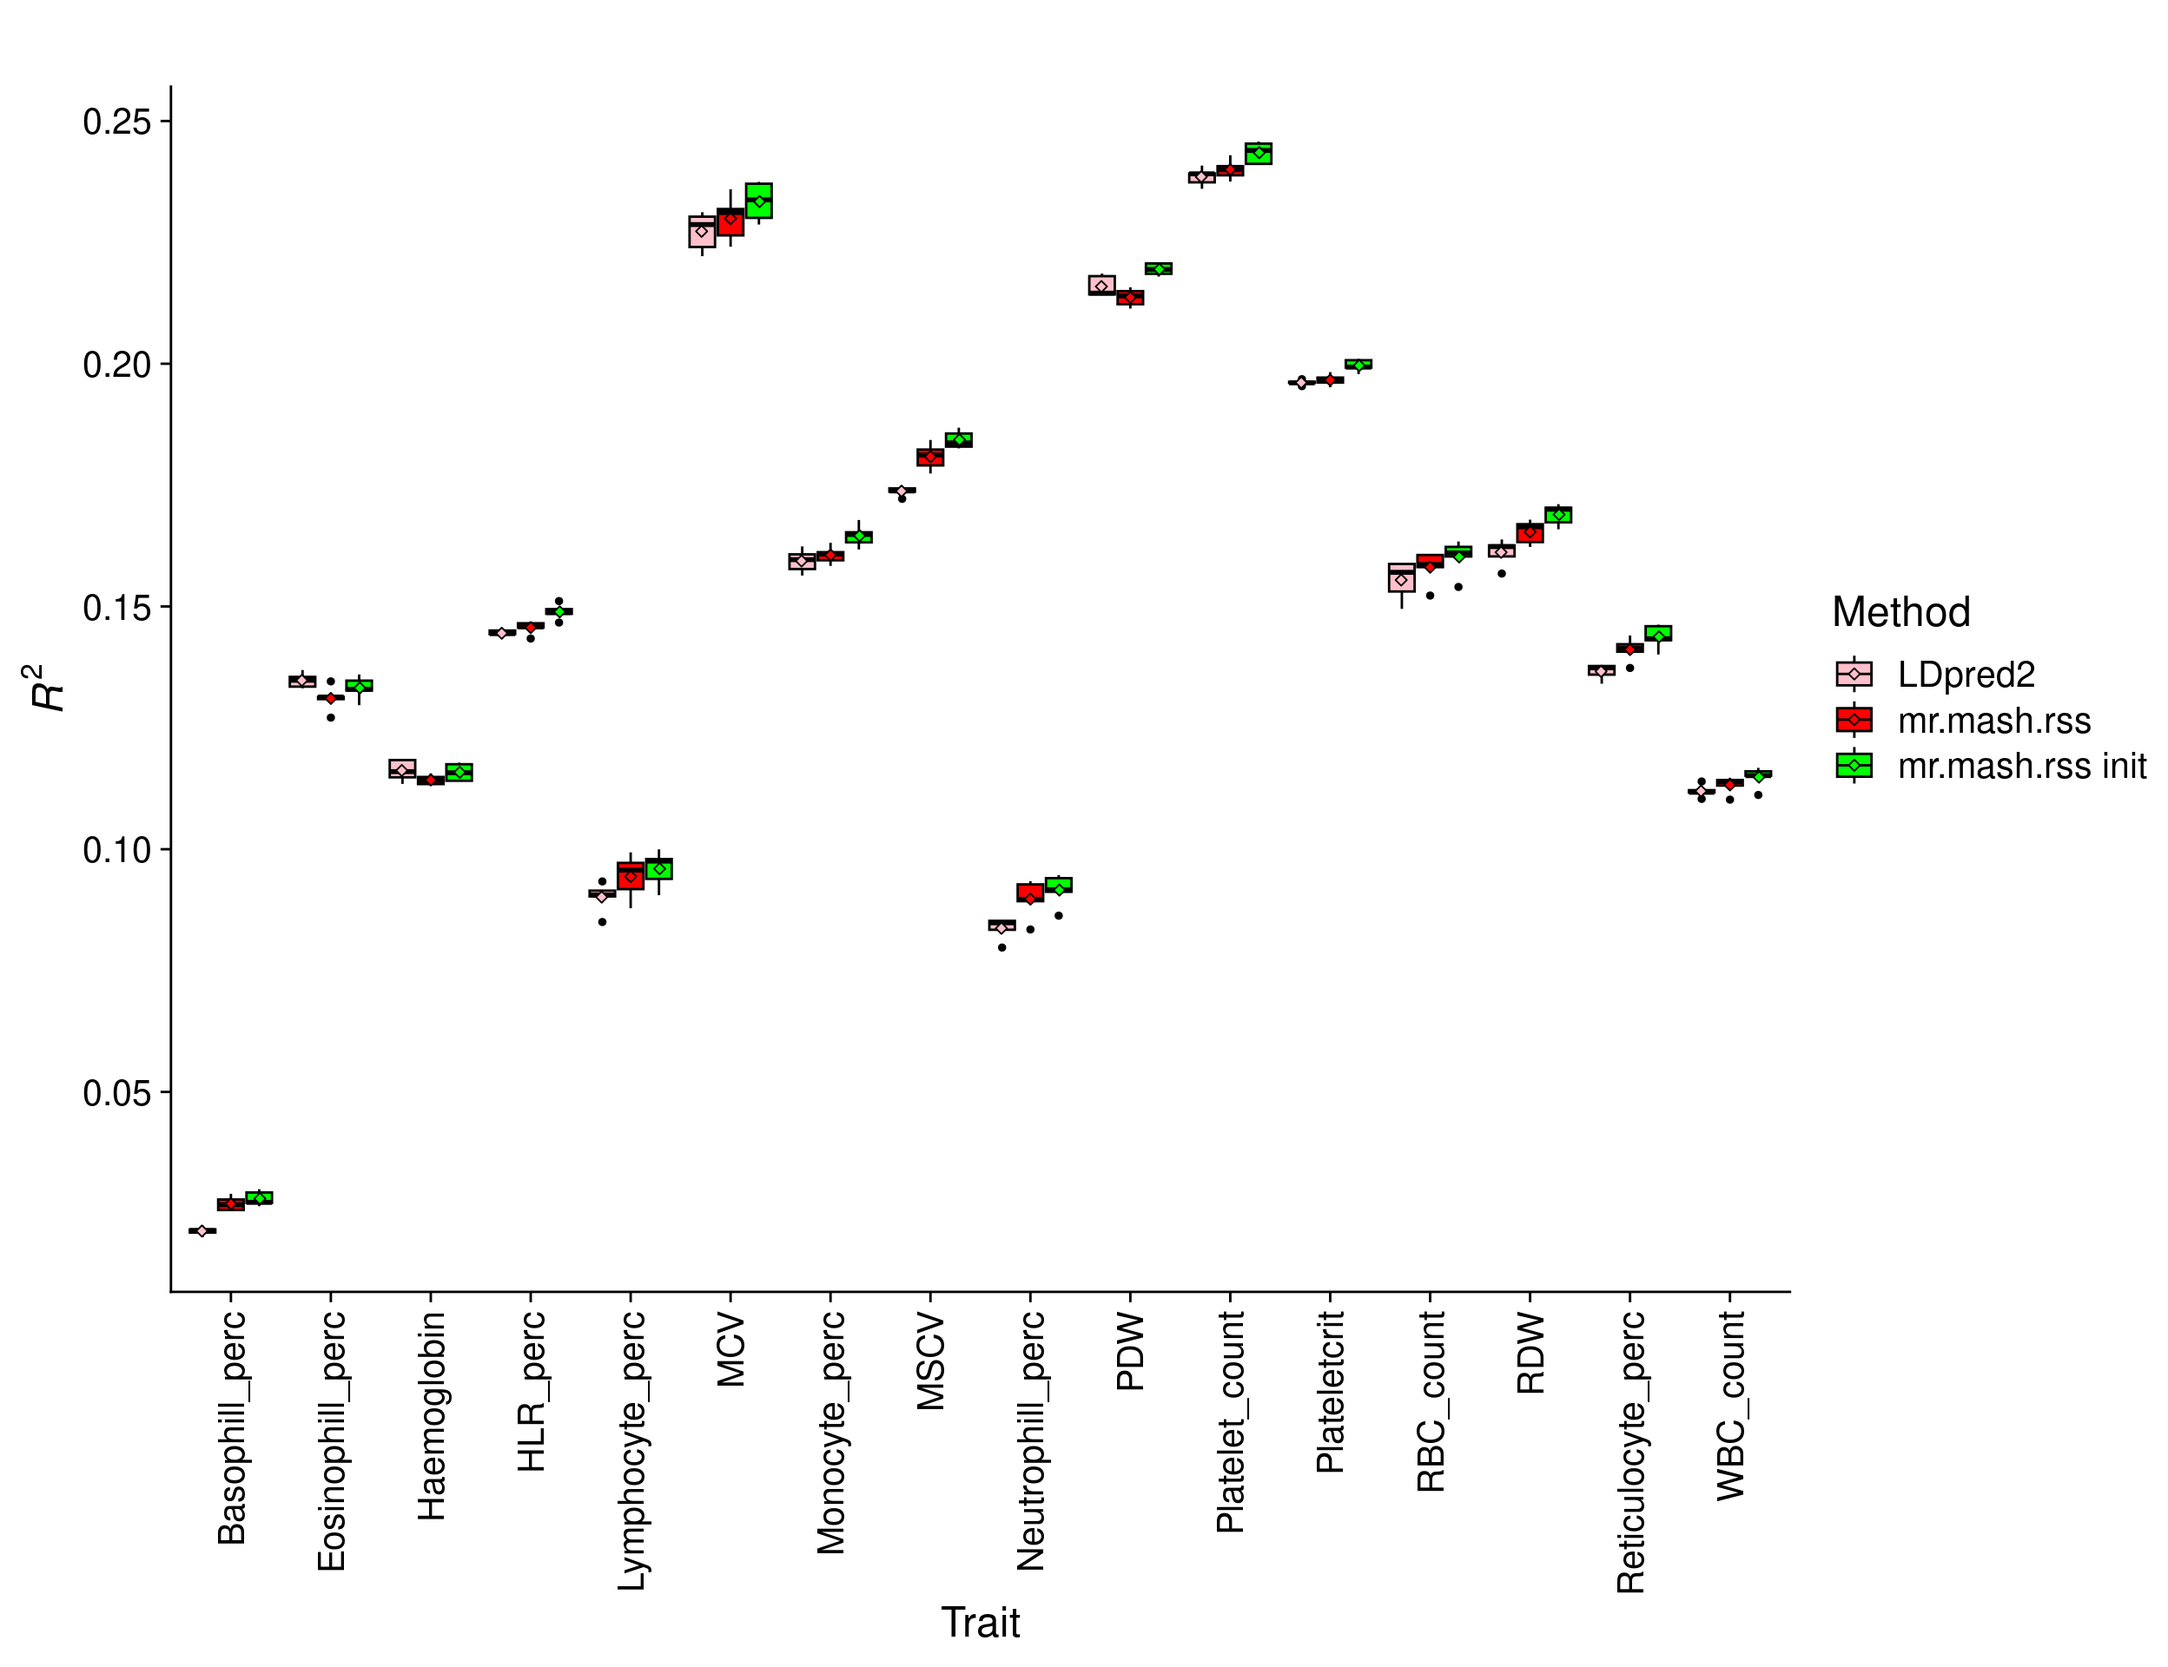
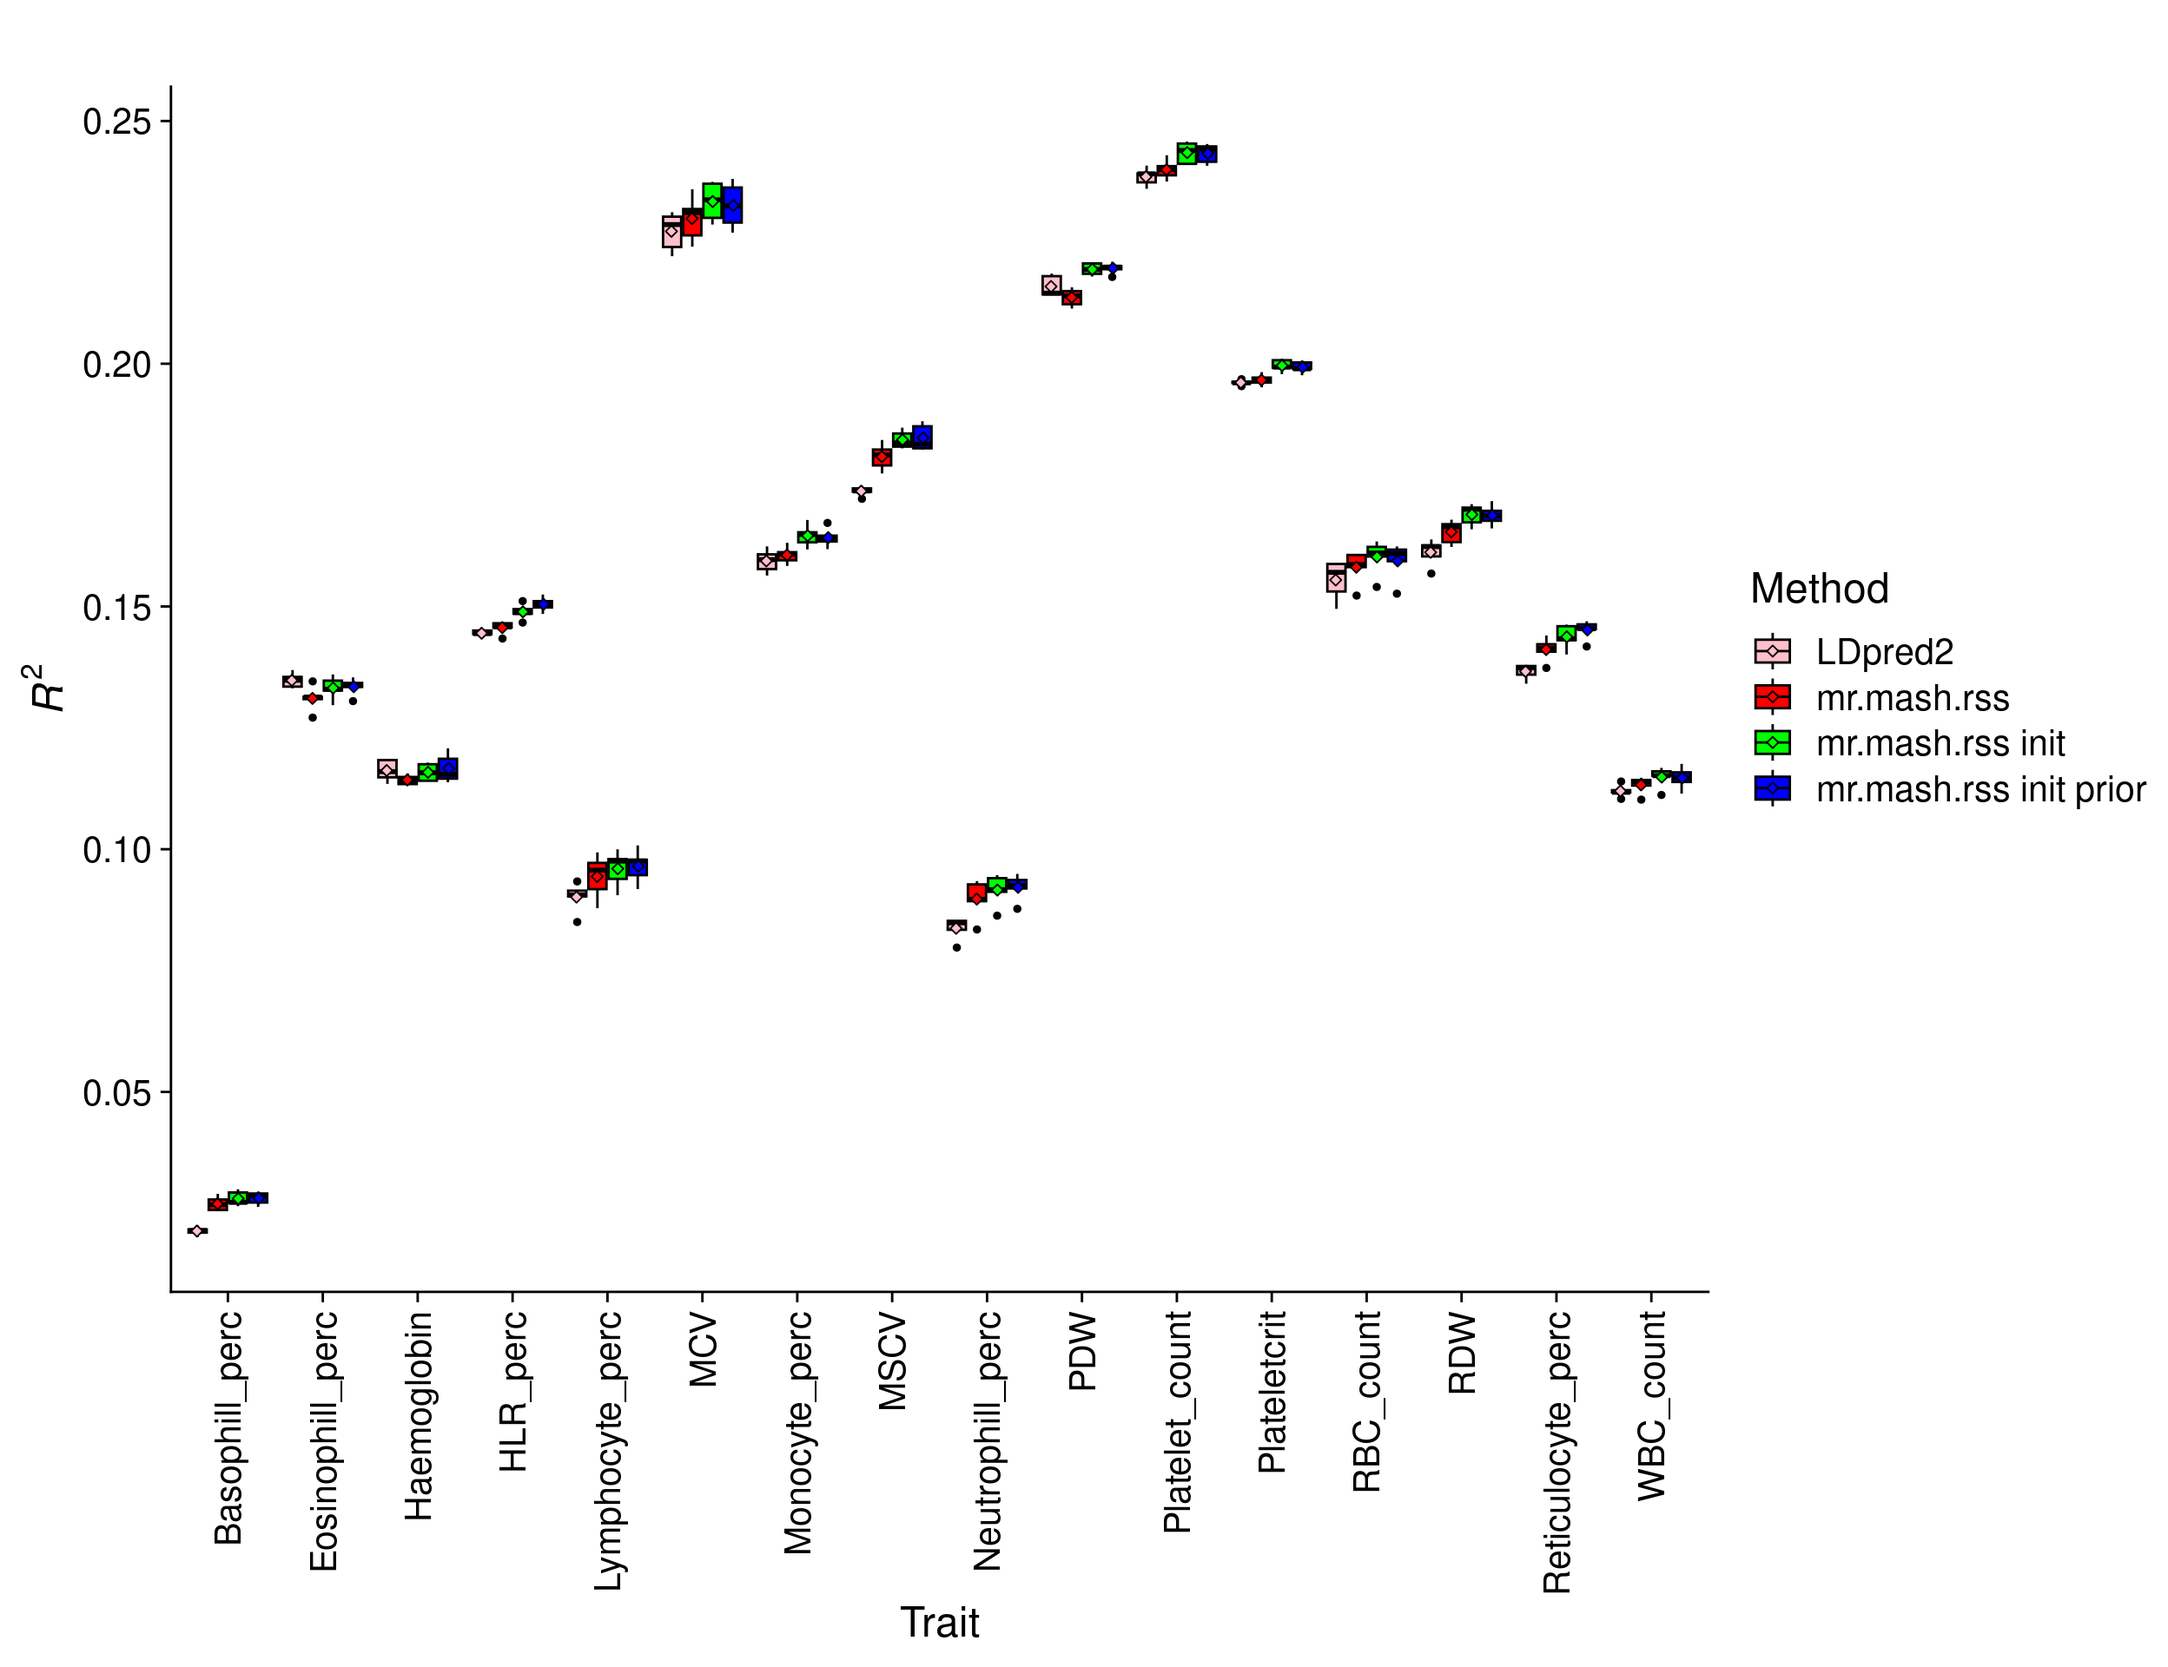
Build site.

diff --git a/docs/ukb_bc_results.html b/docs/ukb_bc_results.html
@@ -11,7 +11,7 @@
 
 <meta name="author" content="Fabio Morgante &amp; Deborah Kunkel" />
 
-<meta name="date" content="2023-11-13" />
+<meta name="date" content="2024-01-02" />
 
 <title>Analysis of blood cell traits in UK Biobank</title>
 
@@ -374,7 +374,7 @@ div.tocify {
 <h1 class="title toc-ignore">Analysis of blood cell traits in UK
 Biobank</h1>
 <h4 class="author">Fabio Morgante &amp; Deborah Kunkel</h4>
-<h4 class="date">November 13, 2023</h4>
+<h4 class="date">January 02, 2024</h4>
 
 </div>
 
@@ -403,7 +403,7 @@ class="glyphicon glyphicon-ok text-success" aria-hidden="true"></span>
 <div class="tab-content">
 <div id="summary" class="tab-pane fade in active">
 <p>
-<strong>Last updated:</strong> 2023-11-13
+<strong>Last updated:</strong> 2024-01-02
 </p>
 <p>
 <strong>Checks:</strong> <span
@@ -534,15 +534,15 @@ project makes it easier to run your code on other machines.</p>
 <div class="panel panel-default">
 <div class="panel-heading">
 <p class="panel-title">
-<a data-toggle="collapse" data-parent="#workflowr-checks" href="#strongRepositoryversionstrongahrefhttpsgithubcommorgantelabmrmashrssanalysistreee2a7fe46e0d6f066b5ffaf30e4e3a6b9b0d636fbtargetblanke2a7fe4a">
+<a data-toggle="collapse" data-parent="#workflowr-checks" href="#strongRepositoryversionstrongahrefhttpsgithubcommorgantelabmrmashrssanalysistree87d67925ed1d07199ec79b00f79de35b51f33bc9targetblank87d6792a">
 <span class="glyphicon glyphicon-ok text-success"
 aria-hidden="true"></span> <strong>Repository version:</strong>
-<a href="https://github.com/morgantelab/mr_mash_rss_analysis/tree/e2a7fe46e0d6f066b5ffaf30e4e3a6b9b0d636fb" target="_blank">e2a7fe4</a>
+<a href="https://github.com/morgantelab/mr_mash_rss_analysis/tree/87d67925ed1d07199ec79b00f79de35b51f33bc9" target="_blank">87d6792</a>
 </a>
 </p>
 </div>
 <div
[2 lines of base64/hex data omitted]
 class="panel-collapse collapse">
 <div class="panel-body">
 <p>
@@ -552,7 +552,7 @@ reproducibility.
 </p>
 <p>
 The results in this page were generated with repository version
-<a href="https://github.com/morgantelab/mr_mash_rss_analysis/tree/e2a7fe46e0d6f066b5ffaf30e4e3a6b9b0d636fb" target="_blank">e2a7fe4</a>.
+<a href="https://github.com/morgantelab/mr_mash_rss_analysis/tree/87d67925ed1d07199ec79b00f79de35b51f33bc9" target="_blank">87d6792</a>.
 See the <em>Past versions</em> tab to see a history of the changes made
 to the R Markdown and HTML files.
 </p>
@@ -576,23 +576,29 @@ Ignored files:
 Untracked files:
     Untracked:  Snakefile_old
     Untracked:  code/adjust_LD_test.R
+    Untracked:  code/compute_prior_all_regions_finemapped_bc_ukb.R
     Untracked:  code/compute_sumstats_test_bc_ukb.R
     Untracked:  code/fit_kriging_rss_ukb.R
     Untracked:  code/fit_mrmashrss_test_ukb.R
     Untracked:  code/merge_sumstats_all_chr_ukb.R
     Untracked:  code/split_effects_by_chr_imp_ukb.R
+    Untracked:  scripts/10_run_compute_prior_all_regions_finemapped_bc_ukb.sbatch
     Untracked:  scripts/11_run_fit_mrmashrss_by_chr_V_all_chr_bc_ukb.sbatch
     Untracked:  scripts/11_run_fit_mrmashrss_sparse_LD_mvsusie_paper_prior_by_chr_bc_ukb.sbatch
     Untracked:  scripts/12_run_compute_pred_accuracy_mrmashrss_sparse_LD_mvsusie_paper_prior_bc_ukb.sbatch
+    Untracked:  scripts/12_run_fit_mrmashrss_sparse_LD_V_all_chr_init_prior_finemapped_by_chr_bc_ukb.sbatch
     Untracked:  scripts/12_run_fit_mrmashrss_sparse_LD_Vcor_all_chr_init_by_chr_bc_ukb.sbatch
+    Untracked:  scripts/13_run_compute_pred_accuracy_mrmashrss_sparse_LD_V_all_chr_init_prior_finemapped_bc_ukb.sbatch
+    Untracked:  scripts/13_run_compute_pred_accuracy_mrmashrss_sparse_LD_Vcor_all_chr_init_bc_ukb.sbatch
     Untracked:  scripts/3_run_compute_sumstats_by_chr_and_fold_test_bc_ukb.sbatch
     Untracked:  scripts/7_run_compute_residual_cor_all_chr_bc_ukb.sbatch
     Untracked:  scripts/run_adjust_LD_test.sbatch
     Untracked:  scripts/run_fit_kriging_rss_by_chr_and_trait_bc_ukb.sbatch
 
 Unstaged changes:
-    Modified:   ukb_sim_equal_effects_indep_resid.yaml
+    Modified:   code/compute_prediction_accuracy_bc_ukb.R
     Modified:   ukb_sim_snakefile
+    Modified:   ukb_sim_snakemake_submitter.sh
 
 </code></pre>
 <p>
@@ -638,6 +644,40 @@ Message
 </tr>
 </thead>
 <tbody>
+<tr>
+<td>
+Rmd
+</td>
+<td>
+<a href="https://github.com/morgantelab/mr_mash_rss_analysis/blob/87d67925ed1d07199ec79b00f79de35b51f33bc9/analysis/ukb_bc_results.Rmd" target="_blank">87d6792</a>
+</td>
+<td>
+fmorgante
+</td>
+<td>
+2024-01-02
+</td>
+<td>
+Add results with finemapped prior
+</td>
+</tr>
+<tr>
+<td>
+html
+</td>
+<td>
+<a href="https://rawcdn.githack.com/morgantelab/mr_mash_rss_analysis/11d9b6c6c4d17681e62e388fa571c65c68e69b73/docs/ukb_bc_results.html" target="_blank">11d9b6c</a>
+</td>
+<td>
+fmorgante
+</td>
+<td>
+2023-11-13
+</td>
+<td>
+Build site.
+</td>
+</tr>
 <tr>
 <td>
 Rmd
@@ -1017,38 +1057,43 @@ for(i in 1:5){
   if(i&gt;1){
     dat_mrmash &lt;- rbind(dat_mrmash, readRDS(paste0(prefix, &quot;_mr_mash_rss_sparse_LD_V_all_chr_pred_acc_&quot;, i, &quot;.rds&quot;))$r2)
     dat_mrmash_init &lt;- rbind(dat_mrmash_init, readRDS(paste0(prefix, &quot;_mr_mash_rss_sparse_LD_V_all_chr_init_pred_acc_&quot;, i, &quot;.rds&quot;))$r2)
+    dat_mrmash_init_fm_prior &lt;- rbind(dat_mrmash_init_fm_prior, readRDS(paste0(prefix, &quot;_mr_mash_rss_sparse_LD_V_all_chr_init_prior_finemapped_pred_acc_&quot;, i, &quot;.rds&quot;))$r2)
     dat_ldpred2 &lt;- rbind(dat_ldpred2, readRDS(paste0(prefix, &quot;_ldpred2_auto_pred_acc_&quot;, i, &quot;.rds&quot;))$r2)
   } else {
     dat_mrmash &lt;- readRDS(paste0(prefix, &quot;_mr_mash_rss_sparse_LD_V_all_chr_pred_acc_&quot;, i, &quot;.rds&quot;))$r2
     dat_mrmash_init &lt;- readRDS(paste0(prefix, &quot;_mr_mash_rss_sparse_LD_V_all_chr_init_pred_acc_&quot;, i, &quot;.rds&quot;))$r2
+    dat_mrmash_init_fm_prior &lt;- readRDS(paste0(prefix, &quot;_mr_mash_rss_sparse_LD_V_all_chr_init_prior_finemapped_pred_acc_&quot;, i, &quot;.rds&quot;))$r2
     dat_ldpred2 &lt;- readRDS(paste0(prefix, &quot;_ldpred2_auto_pred_acc_&quot;, i, &quot;.rds&quot;))$r2
   }
 }
 
 means_mrmash &lt;- colMeans(dat_mrmash)
 means_mrmash_init &lt;- colMeans(dat_mrmash_init)
+means_mrmash_init_fm_prior &lt;- colMeans(dat_mrmash_init_fm_prior)
 means_ldpred2 &lt;- colMeans(dat_ldpred2)
 
 perc_change &lt;- ((means_mrmash_init-means_ldpred2)/means_ldpred2)*100
+perc_change_fm_prior &lt;- ((means_mrmash_init_fm_prior-means_ldpred2)/means_ldpred2)*100
 
 pheno &lt;- readRDS(&quot;data/phenotypes/ukb_cleaned_bc_adjusted_pheno_test_1.rds&quot;)
 
 names(perc_change) &lt;- colnames(pheno)
+names(perc_change_fm_prior) &lt;- colnames(pheno)
 
 linez &lt;- data.frame(trait=colnames(pheno),
                     h2=colMeans(dat_ldsc))
 
-r2 &lt;- c(as.vector(dat_mrmash), as.vector(dat_mrmash_init), as.vector(dat_ldpred2))
-method &lt;- rep(c(&quot;mr_mash_rss&quot;, &quot;mr_mash_rss_init&quot;, &quot;ldpred2_auto&quot;), each=80)
+r2 &lt;- c(as.vector(dat_mrmash), as.vector(dat_mrmash_init), as.vector(dat_mrmash_init_fm_prior), as.vector(dat_ldpred2))
+method &lt;- rep(c(&quot;mr_mash_rss&quot;, &quot;mr_mash_rss_init&quot;, &quot;mr_mash_rss_init_fm_prior&quot;, &quot;ldpred2_auto&quot;), each=80)
 trait &lt;- rep(colnames(pheno), each=5)
 
 res &lt;- data.frame(method, trait, r2)
 
-res &lt;- res[which(res$method %in% c(&quot;ldpred2_auto&quot;, &quot;mr_mash_rss&quot;, &quot;mr_mash_rss_init&quot;)), ]
+res &lt;- res[which(res$method %in% c(&quot;ldpred2_auto&quot;, &quot;mr_mash_rss&quot;, &quot;mr_mash_rss_init&quot;, &quot;mr_mash_rss_init_fm_prior&quot;)), ]
 
 res &lt;- transform(res,
-                 method=factor(method, levels=c(&quot;ldpred2_auto&quot;, &quot;mr_mash_rss&quot;, &quot;mr_mash_rss_init&quot;),
-                               labels=c(&quot;LDpred2&quot;, &quot;mr.mash.rss&quot;, &quot;mr.mash.rss init&quot;)),
+                 method=factor(method, levels=c(&quot;ldpred2_auto&quot;, &quot;mr_mash_rss&quot;, &quot;mr_mash_rss_init&quot;, &quot;mr_mash_rss_init_fm_prior&quot;),
+                               labels=c(&quot;LDpred2&quot;, &quot;mr.mash.rss&quot;, &quot;mr.mash.rss init&quot;, &quot;mr.mash.rss init prior&quot;)),
                  trait=factor(trait))
 
 p_methods_shared &lt;- ggplot(res, aes(x = trait, y = r2, fill = method)) +
@@ -1168,9 +1213,23 @@ fmorgante
         6.4839861         3.2702777         9.4011045        -1.1639116 
    Basophill_perc Reticulocyte_perc              MSCV          HLR_perc 
        31.2653491         5.2106904         6.0862484         3.0587728 </code></pre>
+<p>The percentage change in <span class="math inline">\(R^2\)</span> of
+<em>mr.mash.rss init prior</em> over <em>LDpred2</em> by trait is:</p>
+<pre class="r"><code>perc_change_fm_prior</code></pre>
+<pre><code>        WBC_count         RBC_count       Haemoglobin               MCV 
+        2.4241474         2.5306770         0.3568875         2.3379550 
+              RDW    Platelet_count      Plateletcrit               PDW 
+        4.7172863         2.0194201         1.6206067         1.7425206 
+  Lymphocyte_perc     Monocyte_perc  Neutrophill_perc  Eosinophill_perc 
+        7.0857193         3.0207773        10.0738061        -0.9699018 
+   Basophill_perc Reticulocyte_perc              MSCV          HLR_perc 
+       31.7807615         6.2438722         6.3090459         4.1308564 </code></pre>
 <p>The overall percentage change in <span
 class="math inline">\(R^2\)</span> of <em>mr.mash.rss init</em> over
 <em>LDpred2</em> across traits is 5.1217612.</p>
+<p>The overall percentage change in <span
+class="math inline">\(R^2\)</span> of <em>mr.mash.rss init prior</em>
+over <em>LDpred2</em> across traits is 5.3390273.</p>
 <p>The results show that <em>mr.mash.rss init</em> improves accuracy
 over <em>LDpred2</em> for all but two traits. However, in those two
 traits the performance is very similar. In general, the improvement in
